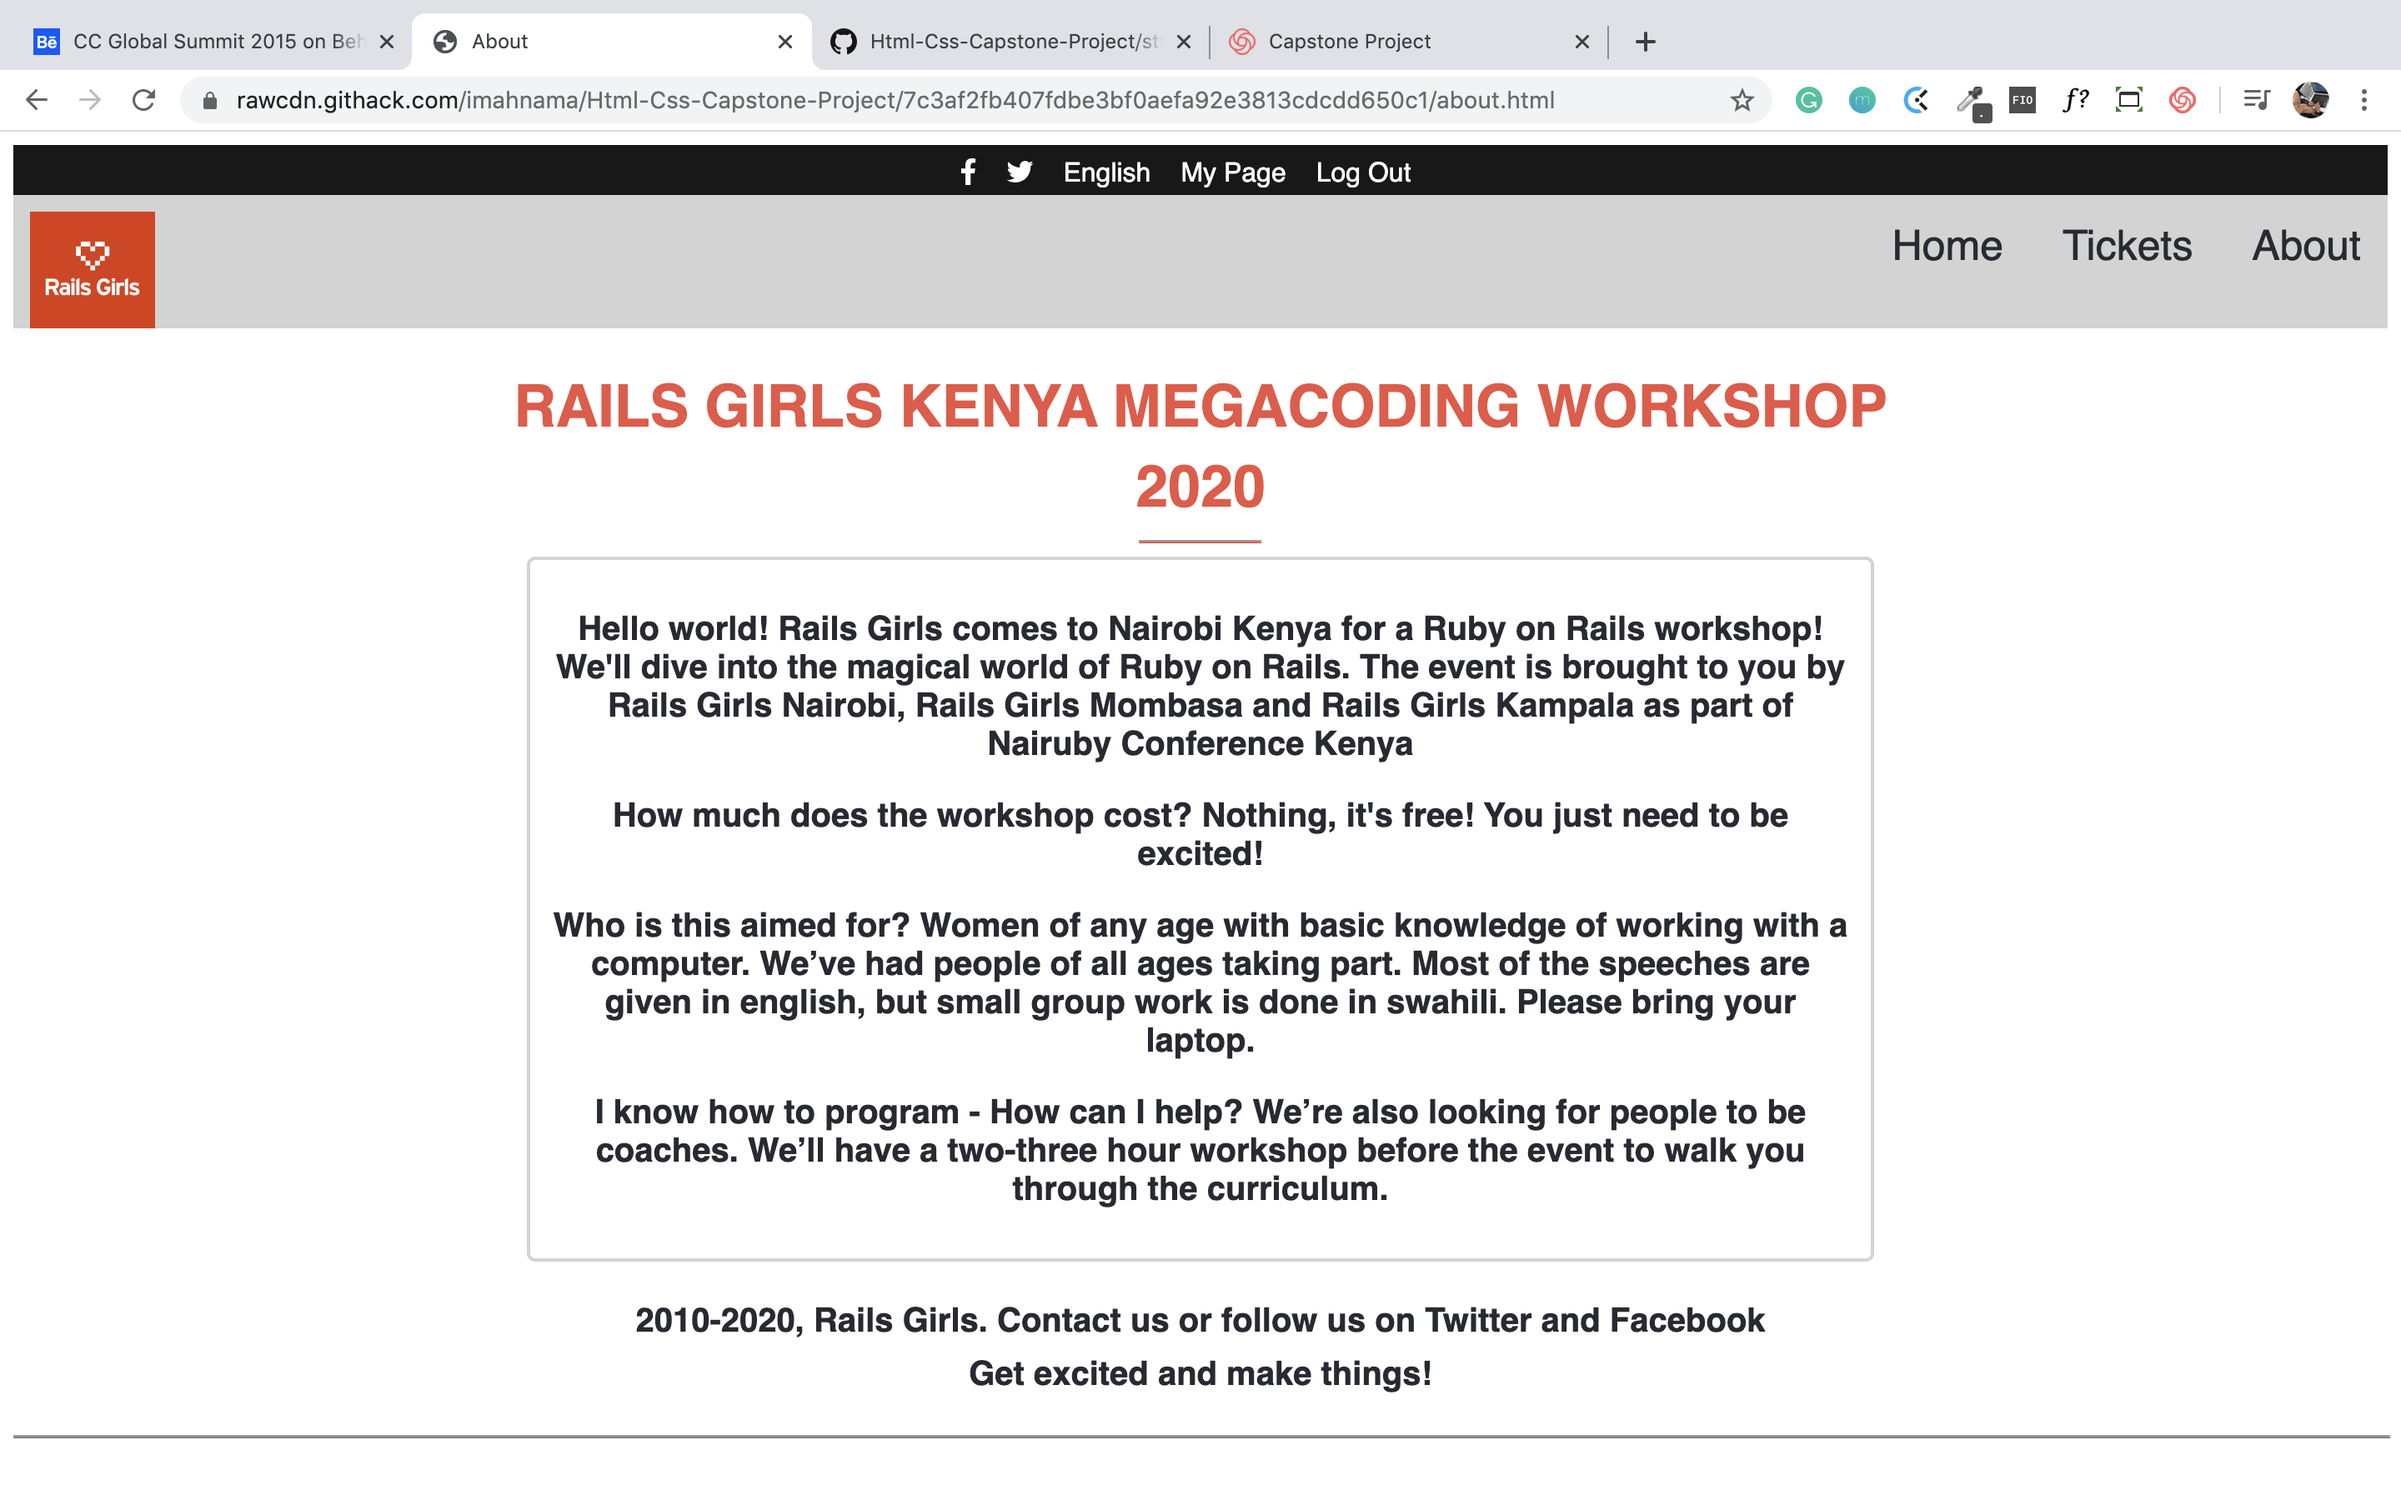
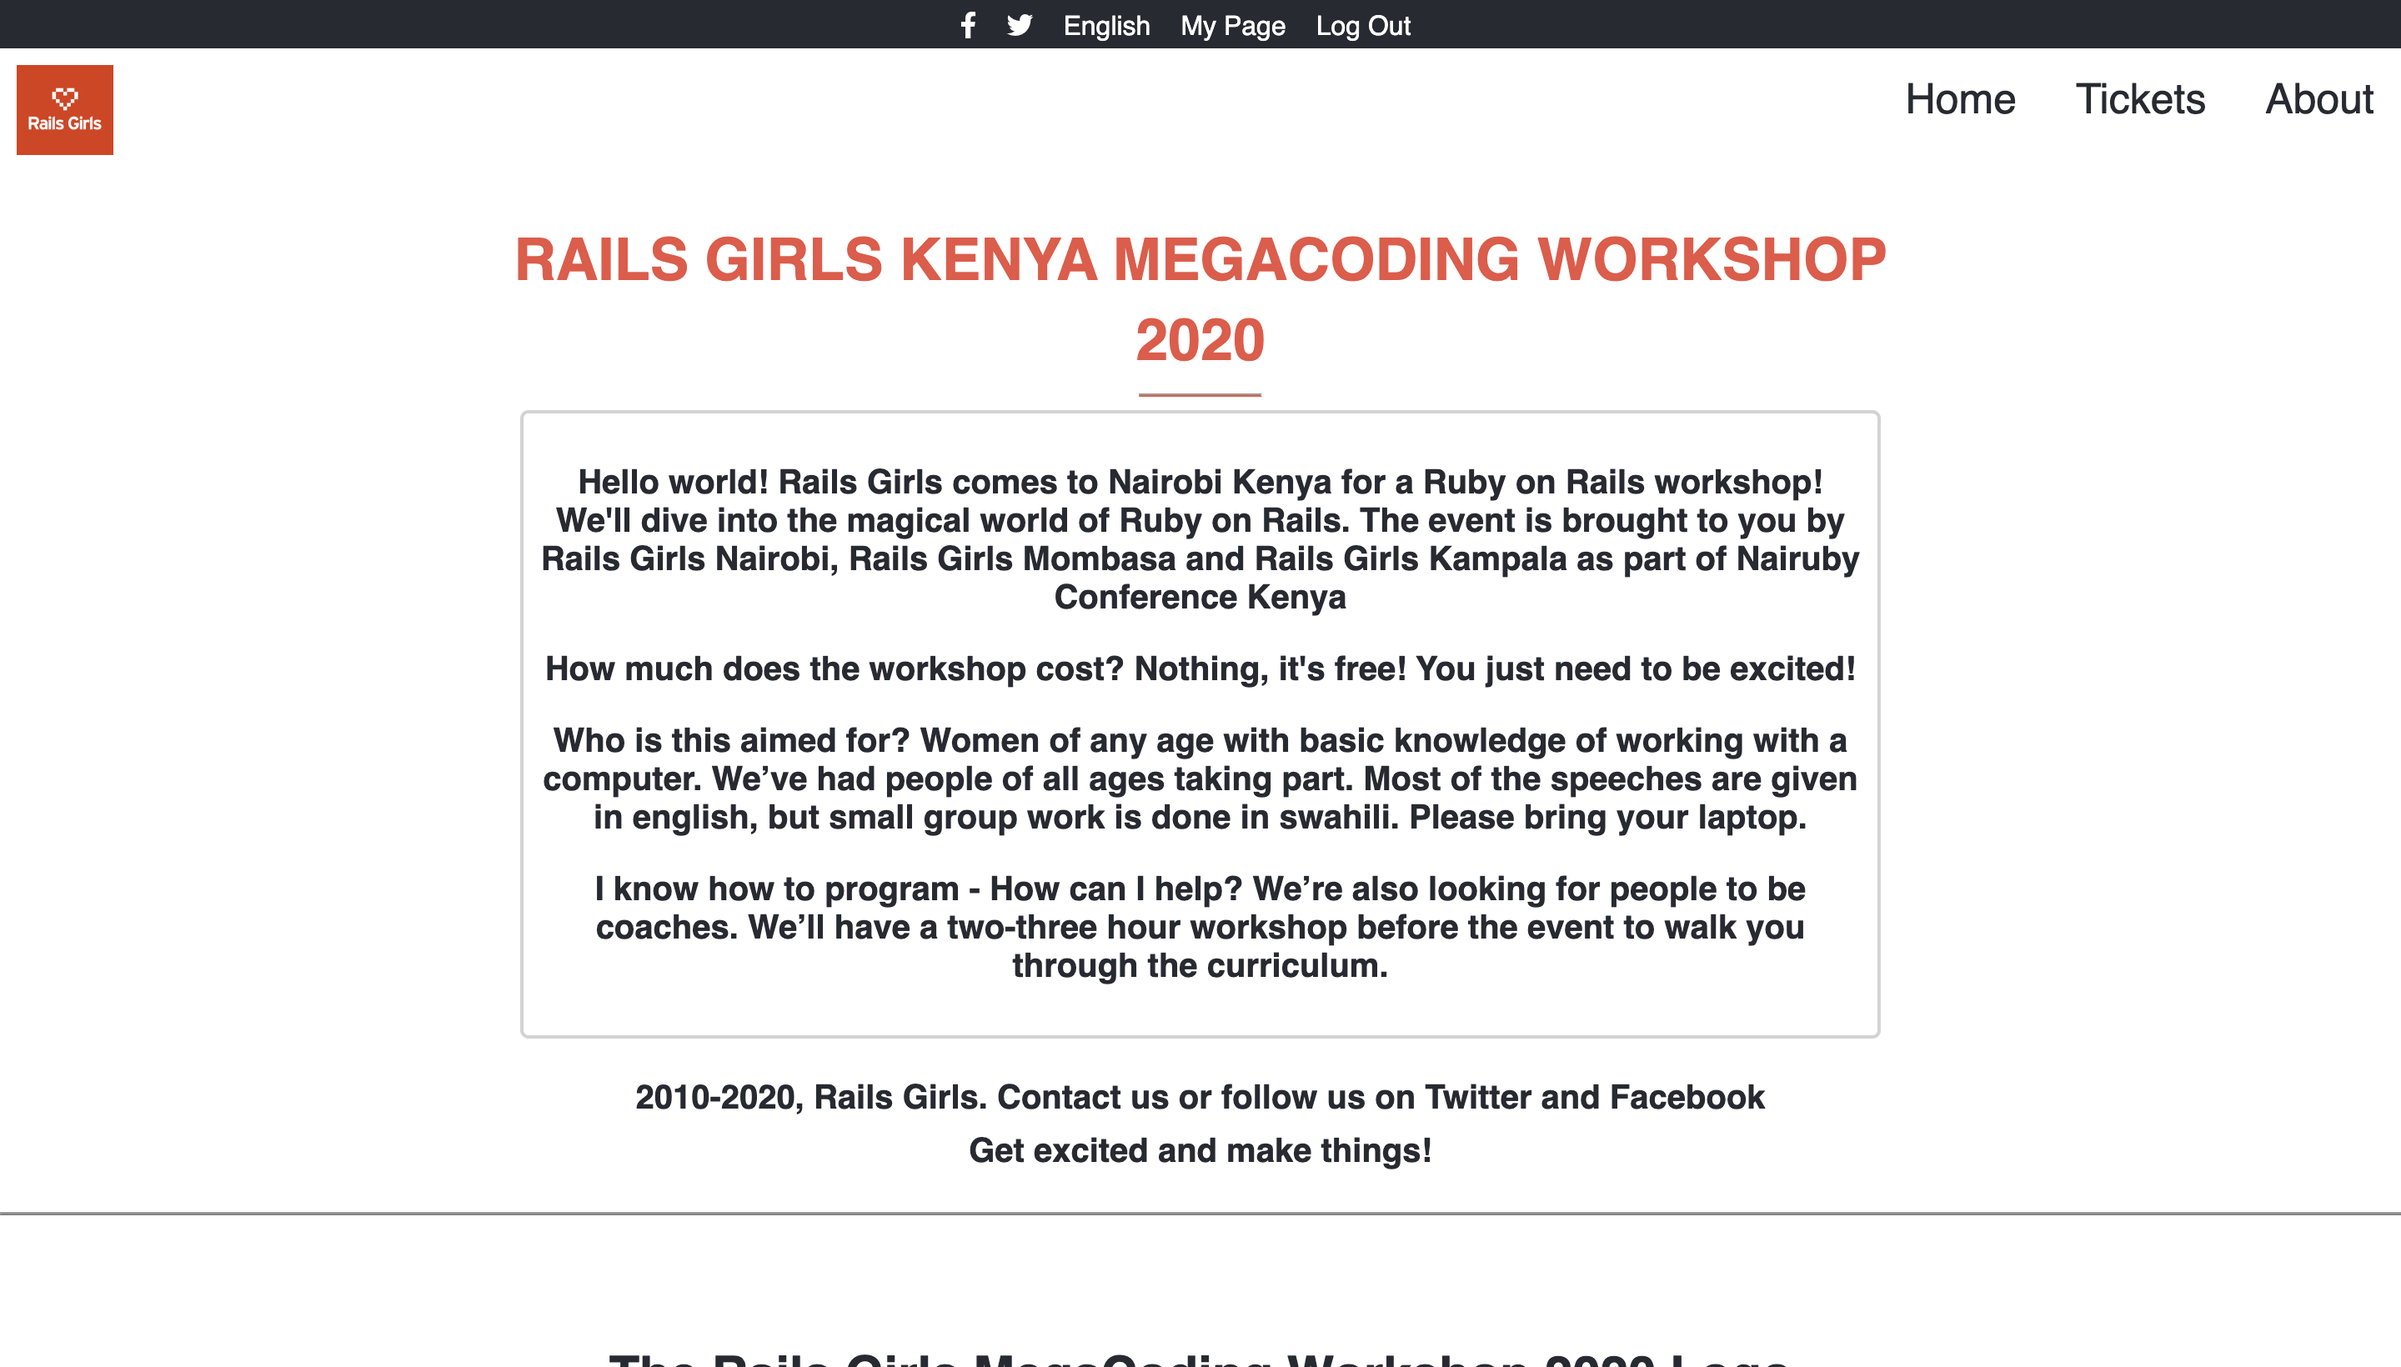
Changed the screenshots in Readme file to updated pages

Changed region(s): [[0.0, 0.0, 1.0, 0.9329], [0.25, 0.9951, 0.75, 1.0]]

diff --git a/README.md b/README.md
@@ -14,7 +14,7 @@ Capstone projects are solo projects at the end of the each of the Microverse Mai
 
 ## Live Demo
 
-[Live Demo Link](https://rawcdn.githack.com/imahnama/Html-Css-Capstone-Project/d82f5f43b8eda60e71a0658d0463249a066f31c6/index.html)
+[Live Demo Link](https://rawcdn.githack.com/imahnama/Html-Css-Capstone-Project/53b6b09924af31fa7fc401a48adc2a85f76fc8b7/index.html)
 
 
 ## Live Video
